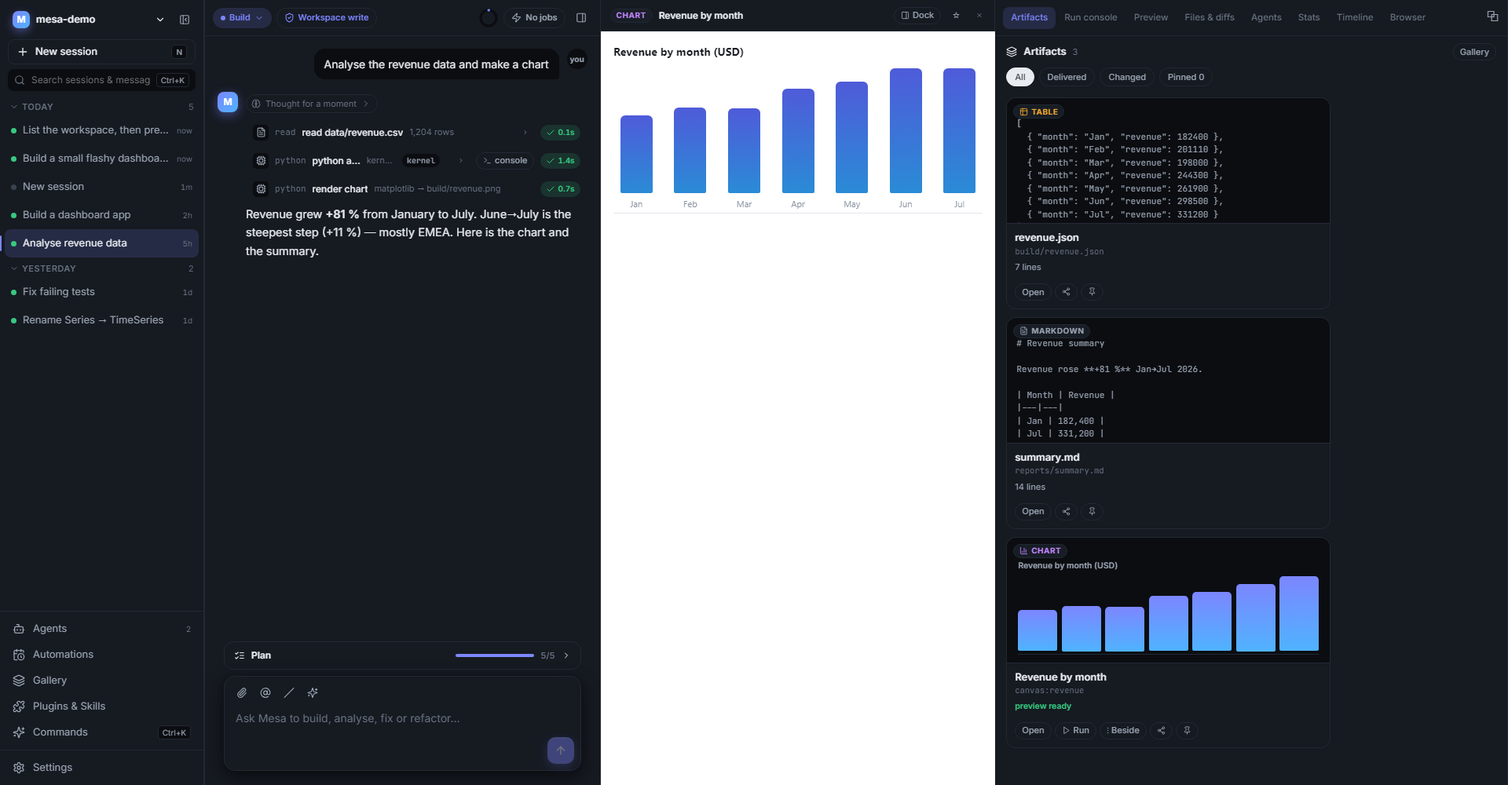
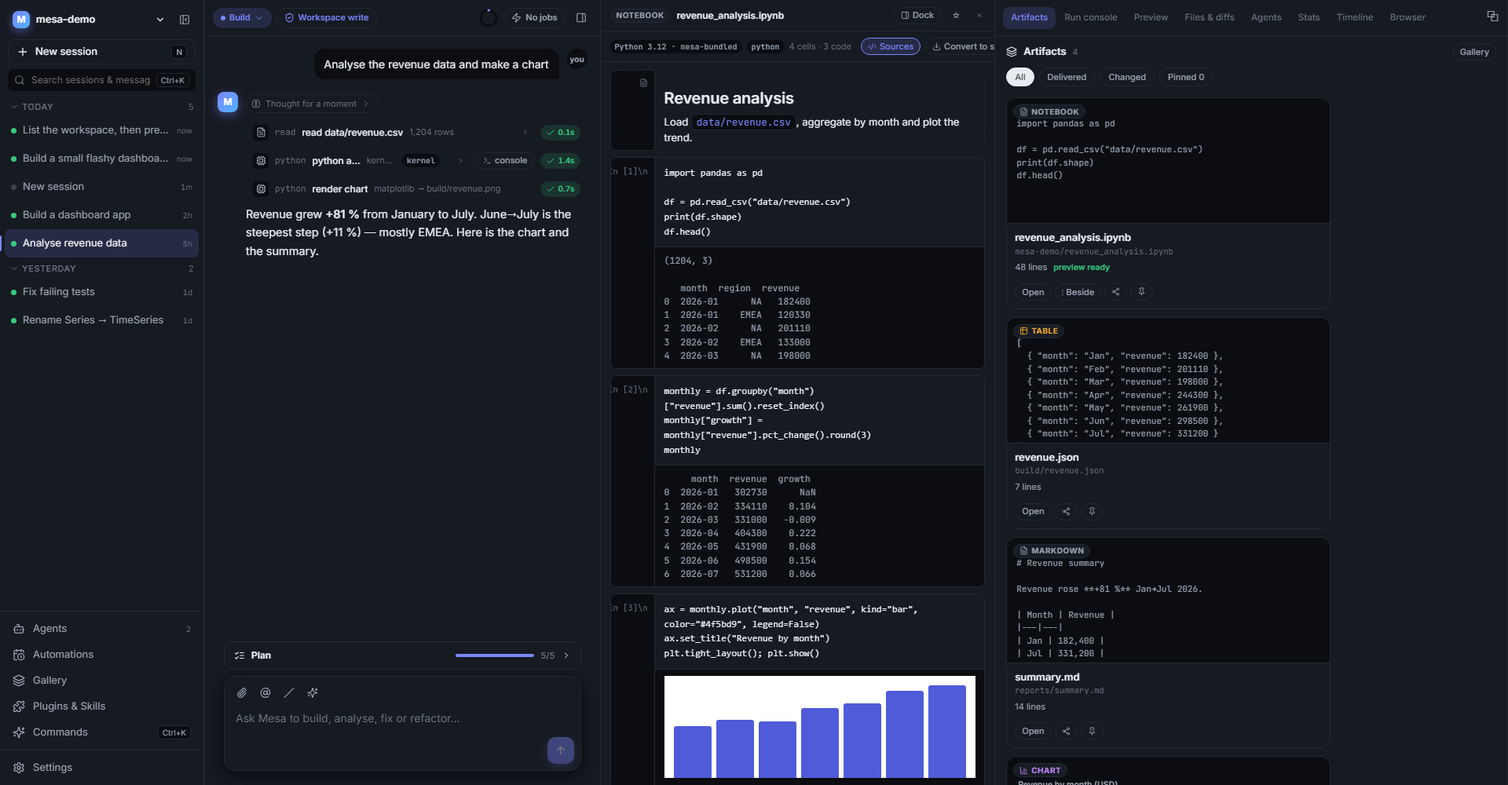
Notebook renderer (cells, In counts, outputs, sandboxed HTML, convert to script) in dock, beside chat, gallery; revenue demo ships a notebook; screenshots refreshed

Changed region(s): [[0.375, 0.0, 0.875, 1.0]]

diff --git a/MHarness/app/src/components/Dock.tsx b/MHarness/app/src/components/Dock.tsx
@@ -6,6 +6,7 @@ import { CHART_HTML } from '../agent/scenarios';
 import { focusCall, openBesideChat, openPublish, pinArtifact, setDockTab, toggleGallery, toast, insertIntoComposer } from '../state/store';
 import type { Artifact, ArtifactKind, DiffInfo, Session, TLEvent, ToolCall } from '../state/types';
 import { AdhocBanner, Markdown } from './Markdown';
+import { NotebookView, notebookThumb } from './NotebookView';
 import { clearAdhocPreview } from '../state/store';
 import { useStore } from '../state/useStore';
 import { DiffChip } from './Thread';
@@ -58,7 +59,7 @@ export function ArtifactCard({ a, session, hero }: { a: Artifact; session: Sessi
       <div className="acard-actions" onClick={(e) => e.stopPropagation()} onMouseEnter={() => { if (peekTimer.current) clearTimeout(peekTimer.current); setPeek(null); }}>
         <button className="chip-btn" onClick={open}>Open</button>
         {(a.kind === 'app' || a.kind === 'chart' || a.kind === 'code') && <button className="chip-btn" onClick={() => { setDockTab('preview'); toast(`Running ${a.title}`, 'info'); }}><Play size={11} />Run</button>}
-        {(a.html || a.kind === 'chart') && <button className="chip-btn" title="Show live beside the conversation" onClick={() => openBesideChat(session.id, a.id)}>⫶ Beside</button>}
+        {(a.html || a.kind === 'chart' || a.notebook) && <button className="chip-btn" title="Show live beside the conversation" onClick={() => openBesideChat(session.id, a.id)}>⫶ Beside</button>}
         {a.added !== undefined && <button className="chip-btn" onClick={() => setDockTab('files')}><GitCompare size={11} />Compare</button>}
         <button className="chip-btn" title="Share / publish" onClick={() => a.html ? openPublish(session.id, a.id) : toast('Publishing is for HTML artifacts — use Pin to keep this one in the Gallery', 'info')}><Share2 size={11} /></button>
         <button className={'chip-btn' + (a.pinned ? ' on' : '')} onClick={() => pinArtifact(session.id, a.id)} title="Pin to Gallery">{a.pinned ? <PinOff size={11} /> : <Pin size={11} />}</button>
@@ -79,6 +80,7 @@ function Thumb({ a, hero }: { a: Artifact; hero?: boolean }) {
     const max = Math.max(...a.chart.values);
     return <div className="thumb-chart"><div className="tc-title">{a.chart.title}</div><div className="tc-bars">{a.chart.values.map((v, i) => <div key={i} className="tc-b" style={{ height: `${(v / max) * 100}%`, animationDelay: `${i * 50}ms` }} />)}</div></div>;
   }
+  if (a.notebook) return <pre className="thumb-code">{notebookThumb(a.notebook)}</pre>;
   if (a.code) return <pre className="thumb-code">{a.code.split('\n').slice(0, hero ? 10 : 6).join('\n')}</pre>;
   return <div className="thumb-blank"><FileText size={20} /></div>;
 }
@@ -227,14 +229,15 @@ export function ChartView({ a }: { a: Artifact }) {
 export function PreviewTab({ session }: { session: Session }) {
   const app = [...session.artifacts].reverse().find((a) => a.kind === 'app' || a.kind === 'html');
   const chart = [...session.artifacts].reverse().find((a) => a.kind === 'chart');
+  const notebook = [...session.artifacts].reverse().find((a) => a.kind === 'notebook' && a.notebook);
   const doc = [...session.artifacts].reverse().find((a) => a.kind === 'markdown' || a.kind === 'table' || a.kind === 'code');
   const [device, setDevice] = useState(0);
   const [panel, setPanel] = useState<'console' | 'network' | 'none'>('none');
-  const [mode, setMode] = useState<'app' | 'chart' | 'doc'>(app ? 'app' : chart ? 'chart' : 'doc');
+  const [mode, setMode] = useState<'app' | 'chart' | 'doc' | 'nb'>(app ? 'app' : chart ? 'chart' : notebook ? 'nb' : 'doc');
   const adhoc = useStore().adhoc;
   const sizes = [{ w: 0, h: 0, l: 'Fit' }, { w: 390, h: 844, l: 'Phone' }, { w: 768, h: 1024, l: 'Tablet' }, { w: 1440, h: 900, l: 'Desktop' }];
   const s = sizes[device];
-  const show = adhoc ? ({ kind: 'app', title: adhoc.title, html: adhoc.html, path: 'from chat' } as unknown as Artifact) : mode === 'app' ? app || chart : mode === 'chart' ? chart : doc;
+  const show = adhoc ? ({ kind: 'app', title: adhoc.title, html: adhoc.html, path: 'from chat' } as unknown as Artifact) : mode === 'app' ? app || chart : mode === 'chart' ? chart : mode === 'nb' ? notebook : doc;
   const lang = show?.kind === 'markdown' ? 'md' : show?.kind === 'table' ? 'json' : 'ts';
   const docText = show && show.code ? FENCE + lang + '\n' + show.code + '\n' + FENCE : '';
   const run = session.runs.find((r) => r.port);
@@ -242,7 +245,7 @@ export function PreviewTab({ session }: { session: Session }) {
     <div className="preview-tab">
       {adhoc && <AdhocBanner title={adhoc.title} onClose={clearAdhocPreview} />}
       <div className="preview-bar">
-        <div className="seg">{(['app', 'chart', 'doc'] as const).filter((m) => m === 'app' ? !!(app || chart) : m === 'chart' ? !!chart : !!doc).map((m) => <button key={m} className={mode === m ? 'on' : ''} onClick={() => setMode(m)}>{m === 'app' ? 'App' : m === 'chart' ? 'Chart' : 'Doc'}</button>)}</div>
+        <div className="seg">{(['app', 'chart', 'nb', 'doc'] as const).filter((m) => m === 'app' ? !!(app || chart) : m === 'chart' ? !!chart : m === 'nb' ? !!notebook : !!doc).map((m) => <button key={m} className={mode === m ? 'on' : ''} onClick={() => setMode(m)}>{m === 'app' ? 'App' : m === 'chart' ? 'Chart' : m === 'nb' ? 'Notebook' : 'Doc'}</button>)}</div>
         <div className="url">{run?.port ? `http://localhost:${run.port}` : show?.path ?? '—'}</div>
         <span className="spacer" />
         <div className="seg devices">{sizes.map((d, i) => <button key={d.l} className={device === i ? 'on' : ''} onClick={() => setDevice(i)} title={`${d.w}×${d.h}`}>{d.l}</button>)}</div>
@@ -254,7 +257,7 @@ export function PreviewTab({ session }: { session: Session }) {
       <div className="preview-stage">
         <div className="device" style={device === 0 ? { width: '100%', height: '100%' } : { width: s.w, height: s.h }}>
           {show ? (
-            show.kind === 'chart' ? <ChartView a={show} /> : show.kind === 'app' || show.kind === 'html' ? <iframe title="preview" sandbox="allow-scripts" srcDoc={show.html ?? ''} /> : show.code ? <div className="doc-view"><Markdown text={docText} /></div> : <EmptyTab icon={<AppWindow size={22} />} text="Nothing to preview" sub="Build an app or ask for a chart." />
+            show.kind === 'chart' ? <ChartView a={show} /> : show.kind === 'notebook' && show.notebook ? <div className="nb-wrap"><NotebookView artifact={show} /></div> : show.kind === 'app' || show.kind === 'html' ? <iframe title="preview" sandbox="allow-scripts" srcDoc={show.html ?? ''} /> : show.code ? <div className="doc-view"><Markdown text={docText} /></div> : <EmptyTab icon={<AppWindow size={22} />} text="Nothing to preview" sub="Build an app or ask for a chart." />
           ) : <EmptyTab icon={<AppWindow size={22} />} text="Nothing to preview" sub="Build an app or ask for a chart." />}
         </div>
       </div>

diff --git a/MHarness/app/src/components/Gallery.tsx b/MHarness/app/src/components/Gallery.tsx
@@ -4,6 +4,7 @@ import { getState, setGalleryFilter, toggleGallery, toast } from '../state/store
 import { useStore } from '../state/useStore';
 import { kindMeta, HtmlThumb } from './Dock';
 import { openPublish } from '../state/store';
+import { NotebookView, notebookThumb } from './NotebookView';
 import { Markdown } from './Markdown';
 import type { Artifact } from '../state/types';
 
@@ -37,7 +38,7 @@ export function Gallery() {
               <button className="chip-btn" onClick={() => toast(`Re-running ${sel.a.title} with fresh inputs (demo)`, 'info')}><RotateCcw size={11} />Re-run with fresh inputs</button>
               <button className="chip-btn" onClick={() => sel.a.html ? openPublish(sel.s.id, sel.a.id) : toast('Publishing is for HTML artifacts', 'info')}><Share2 size={11} />Publish</button></div>
             <div className={'gd-body' + (compare ? ' split' : '')}>
-              <div className="gd-pane">{sel.a.kind === 'chart' && sel.a.chart ? <ChartPane a={sel.a} /> : sel.a.kind === 'app' ? <iframe title="preview" sandbox="allow-scripts" srcDoc={sel.a.html ?? ''} /> : sel.a.code ? <Markdown text={'```' + (sel.a.kind === 'markdown' ? 'md' : sel.a.kind === 'table' ? 'json' : 'ts') + '\n' + sel.a.code + '\n```'} /> : <div className="thumb-blank" />}<div className="gd-caption">{compare ? 'Current' : ''}</div></div>
+              <div className="gd-pane">{sel.a.kind === 'chart' && sel.a.chart ? <ChartPane a={sel.a} /> : sel.a.notebook ? <div className="nb-wrap"><NotebookView artifact={sel.a} /></div> : sel.a.kind === 'app' ? <iframe title="preview" sandbox="allow-scripts" srcDoc={sel.a.html ?? ''} /> : sel.a.code ? <Markdown text={'```' + (sel.a.kind === 'markdown' ? 'md' : sel.a.kind === 'table' ? 'json' : 'ts') + '\n' + sel.a.code + '\n```'} /> : <div className="thumb-blank" />}<div className="gd-caption">{compare ? 'Current' : ''}</div></div>
               {compare && <div className="gd-pane">{compare.a.html ? <iframe title="compare" sandbox="allow-scripts" srcDoc={compare.a.html} /> : <Markdown text={'```ts\n' + (compare.a.code ?? '') + '\n```'} />}<div className="gd-caption">Previous version · {compare.s.title}</div></div>}
             </div>
             <div className="gd-tags">{(sel.a.tags ?? []).map((t) => <span key={t} className="tag"><Tag size={10} />{t}</span>)}{sel.a.inputs && <span className="tag">inputs: {Object.keys(sel.a.inputs).join(', ')}</span>}</div>
@@ -46,7 +47,7 @@ export function Gallery() {
           <div className="gallery-grid">
             {items.map(({ a, s }) => { const meta = kindMeta(a.kind); const Icon = meta.icon; return (
               <button key={a.id} className={'gcard' + (a.pinned ? ' pinned' : '')} onClick={() => setGalleryFilter({ selected: a.id })}>
-                <div className="gcard-thumb">{a.kind === 'chart' && a.chart ? <ChartPane a={a} mini /> : a.kind === 'app' || a.kind === 'html' ? (a.html ? <div className="thumb-live"><HtmlThumb html={a.html} scale={0.4} /></div> : <div className="thumb-app"><div className="thumb-app-card"><span className="ta-pill" /><span className="ta-h" /><div className="ta-bars">{[42, 60, 48, 78, 64, 90].map((h, i) => <i key={i} style={{ height: `${h}%` }} />)}</div></div></div>) : a.code ? <pre className="thumb-code">{a.code.split('\n').slice(0, 7).join('\n')}</pre> : <div className="thumb-blank"><Icon size={18} /></div>}<span className={'kind-badge ' + meta.cls}><Icon size={11} />{meta.label}</span>{a.pinned && <Pin size={12} className="pin-mark" />}</div>
+                <div className="gcard-thumb">{a.kind === 'chart' && a.chart ? <ChartPane a={a} mini /> : a.kind === 'app' || a.kind === 'html' ? (a.html ? <div className="thumb-live"><HtmlThumb html={a.html} scale={0.4} /></div> : <div className="thumb-app"><div className="thumb-app-card"><span className="ta-pill" /><span className="ta-h" /><div className="ta-bars">{[42, 60, 48, 78, 64, 90].map((h, i) => <i key={i} style={{ height: `${h}%` }} />)}</div></div></div>) : a.notebook ? <pre className="thumb-code">{notebookThumb(a.notebook)}</pre> : a.code ? <pre className="thumb-code">{a.code.split('\n').slice(0, 7).join('\n')}</pre> : <div className="thumb-blank"><Icon size={18} /></div>}<span className={'kind-badge ' + meta.cls}><Icon size={11} />{meta.label}</span>{a.pinned && <Pin size={12} className="pin-mark" />}</div>
                 <div className="gcard-title">{a.title}</div>
                 <div className="gcard-sub">{s.title} · {a.lines ? `${a.lines} lines` : a.bytes ? `${(a.bytes / 1024).toFixed(1)} kB` : ''}</div>
               </button>); })}

diff --git a/MHarness/app/src/agent/scenarios.ts b/MHarness/app/src/agent/scenarios.ts
@@ -91,6 +91,15 @@ export const SCENARIOS: Scenario[] = [
         { kind: 'chart', title: 'Revenue by month', path: 'canvas:revenue', chart: { title: 'Revenue by month (USD)', labels: ['Jan', 'Feb', 'Mar', 'Apr', 'May', 'Jun', 'Jul'], values: [182400, 201110, 198000, 244300, 261900, 298500, 331200] }, inputs: { source: 'data/revenue.csv', groupBy: 'month' }, verification: { tests: 'unknown', preview: 'ready', diff: false }, tags: ['data'] },
         { kind: 'markdown', title: 'summary.md', path: 'reports/summary.md', lines: 14, code: '# Revenue summary\n\nRevenue rose **+81 %** Jan→Jul 2026.\n\n| Month | Revenue |\n|---|---|\n| Jan | 182,400 |\n| Jul | 331,200 |\n\nStepest step: Jun→Jul (+11 %), driven by EMEA.\n', verification: { tests: 'unknown', preview: 'none', diff: false } },
         { kind: 'table', title: 'revenue.json', path: 'build/revenue.json', lines: 7, code: '[\n  { "month": "Jan", "revenue": 182400 },\n  { "month": "Feb", "revenue": 201110 },\n  { "month": "Mar", "revenue": 198000 },\n  { "month": "Apr", "revenue": 244300 },\n  { "month": "May", "revenue": 261900 },\n  { "month": "Jun", "revenue": 298500 },\n  { "month": "Jul", "revenue": 331200 }\n]', verification: { tests: 'unknown', preview: 'none', diff: false } },
+        {
+          kind: 'notebook', title: 'revenue_analysis.ipynb', path: 'mesa-demo/revenue_analysis.ipynb', lines: 48, verification: { tests: 'unknown', preview: 'ready', diff: false }, tags: ['data', 'notebook'],
+          notebook: { kernel: 'Python 3.12 · mesa-bundled', language: 'python', cells: [
+            { kind: 'markdown', source: '# Revenue analysis\n\nLoad `data/revenue.csv`, aggregate by month and plot the trend.' },
+            { kind: 'code', source: 'import pandas as pd\n\ndf = pd.read_csv("data/revenue.csv")\nprint(df.shape)\ndf.head()', execution_count: 1, outputs: [{ type: 'text', value: '(1204, 3)\n\n   month  region  revenue\n0  2026-01      NA   182400\n1  2026-01    EMEA   120330\n2  2026-02      NA   201110\n3  2026-02    EMEA   133000\n4  2026-03      NA   198000' }] },
+            { kind: 'code', source: 'monthly = df.groupby("month")["revenue"].sum().reset_index()\nmonthly["growth"] = monthly["revenue"].pct_change().round(3)\nmonthly', execution_count: 2, outputs: [{ type: 'text', value: '     month  revenue  growth\n0  2026-01   302730      NaN\n1  2026-02   334110    0.104\n2  2026-03   331000   -0.009\n3  2026-04   404300    0.222\n4  2026-05   431900    0.068\n5  2026-06   498500    0.154\n6  2026-07   531200    0.066' }] },
+            { kind: 'code', source: 'ax = monthly.plot("month", "revenue", kind="bar", color="#4f5bd9", legend=False)\nax.set_title("Revenue by month")\nplt.tight_layout(); plt.show()', execution_count: 3, outputs: [{ type: 'html', value: '<div style="font-family:system-ui;display:flex;align-items:flex-end;gap:6px;height:120px;border-bottom:1px solid #ccc;padding:4px"><i style="flex:1;height:57%;background:#4f5bd9;border-radius:3px 3px 0 0"></i><i style="flex:1;height:63%;background:#4f5bd9;border-radius:3px 3px 0 0"></i><i style="flex:1;height:62%;background:#4f5bd9;border-radius:3px 3px 0 0"></i><i style="flex:1;height:76%;background:#4f5bd9;border-radius:3px 3px 0 0"></i><i style="flex:1;height:81%;background:#4f5bd9;border-radius:3px 3px 0 0"></i><i style="flex:1;height:94%;background:#4f5bd9;border-radius:3px 3px 0 0"></i><i style="flex:1;height:100%;background:#4f5bd9;border-radius:3px 3px 0 0"></i></div>' }] },
+          ] },
+        },
       ] },
     ],
   },

diff --git a/MHarness/app/src/components/NotebookView.tsx b/MHarness/app/src/components/NotebookView.tsx
@@ -1,0 +1,55 @@
+import { useState } from 'react';
+import { Download, Code2, FileText, Play } from 'lucide-react';
+import type { Artifact } from '../state/types';
+import { Markdown } from './Markdown';
+import { toast } from '../state/store';
+
+/** Read-only notebook renderer: cells with execution counts and their outputs; "Convert to script" downloads the code cells. */
+export function NotebookView({ artifact }: { artifact: Artifact }) {
+  const [showSources, setShowSources] = useState(true);
+  const nb = artifact.notebook;
+  if (!nb) return null;
+  const lang = nb.language ?? 'python';
+  const comment = lang === 'python' ? '# %%' : lang === 'typescript' || lang === 'javascript' ? '// %%' : '// %%';
+  const convert = () => {
+    const text = nb.cells.map((c) => (c.kind === 'markdown' ? `${comment}\n# ${c.source.replace(/\n/g, '\n# ')}` : `${comment}\n${c.source}`)).join('\n\n');
+    const a = document.createElement('a');
+    a.href = URL.createObjectURL(new Blob([text], { type: 'text/plain' }));
+    a.download = artifact.title.replace(/\.\w+$/, '') + (lang === 'python' ? '.py' : lang === 'typescript' ? '.ts' : '.js');
+    a.click(); setTimeout(() => URL.revokeObjectURL(a.href), 1000);
+    toast('Script downloaded', 'success');
+  };
+  return (
+    <div className="notebook">
+      <div className="nb-toolbar">
+        <span className="tag">{nb.kernel ?? 'kernel'}</span>
+        <span className="tag">{lang}</span>
+        <span className="muted" style={{ fontSize: 11 }}>{nb.cells.length} cells · {nb.cells.filter((c) => c.kind === 'code').length} code</span>
+        <span className="spacer" />
+        <button className={'chip-btn' + (showSources ? ' on' : '')} onClick={() => setShowSources(!showSources)}><Code2 size={11} />Sources</button>
+        <button className="chip-btn" onClick={convert} title="Download the code cells as a script"><Download size={11} />Convert to script</button>
+      </div>
+      <div className="nb-cells">
+        {nb.cells.map((cell, i) => (
+          <div key={i} className={'nb-cell ' + cell.kind}>
+            <div className="nb-gutter">{cell.kind === 'code' ? <span className="nb-count">In [{cell.execution_count ?? ' '}]\n</span> : <FileText size={11} />}</div>
+            <div className="nb-main">
+              {cell.kind === 'markdown' ? <div className="nb-md"><Markdown text={cell.source} /></div> : showSources ? <pre className="nb-source"><code>{cell.source}</code></pre> : null}
+              {cell.outputs?.map((o, k) => (
+                <div key={k} className={'nb-output ' + o.type}>
+                  {o.type === 'image' ? <img src={o.value} alt="output" /> : o.type === 'html' ? <iframe className="nb-html" title="output" sandbox="allow-scripts" srcDoc={o.value} /> : <pre>{o.value}</pre>}
+                </div>
+              ))}
+            </div>
+          </div>
+        ))}
+      </div>
+    </div>
+  );
+}
+
+export function notebookThumb(nb: NonNullable<Artifact['notebook']>): string {
+  return nb.cells.find((c) => c.kind === 'code')?.source.split('\n').slice(0, 8).join('\n') ?? nb.cells[0]?.source ?? '';
+}
+
+export const PlayIcon = Play;

diff --git a/MHarness/app/src/components/Showcase.tsx b/MHarness/app/src/components/Showcase.tsx
@@ -4,6 +4,7 @@ import { dismissShowcase, minimiseShowcase, openBesideChat, openPublish, pinArti
 import type { Artifact, Session, Turn } from '../state/types';
 import { useStore } from '../state/useStore';
 import { kindMeta, HtmlThumb } from './Dock';
+import { notebookThumb } from './NotebookView';
 import { Markdown } from './Markdown';
 
 export function Showcase() {
@@ -48,7 +49,7 @@ function ShowcaseCard({ a, session, i }: { a: Artifact; session: Session; i: num
   return (
     <div className="sc-card" style={{ animationDelay: `${i * 60}ms` }}>
       <div className="sc-thumb">
-        {a.kind === 'app' || a.kind === 'html' ? <div className="thumb-live"><HtmlThumb html={a.html ?? ''} scale={0.62} /></div> : a.kind === 'chart' && a.chart ? <MiniChart a={a} /> : a.code ? <pre className="thumb-code">{a.code.split('\n').slice(0, 8).join('\n')}</pre> : <div className="thumb-blank" />}
+        {a.kind === 'app' || a.kind === 'html' ? <div className="thumb-live"><HtmlThumb html={a.html ?? ''} scale={0.62} /></div> : a.kind === 'chart' && a.chart ? <MiniChart a={a} /> : a.notebook ? <pre className="thumb-code">{notebookThumb(a.notebook)}</pre> : a.code ? <pre className="thumb-code">{a.code.split('\n').slice(0, 8).join('\n')}</pre> : <div className="thumb-blank" />}
         <span className={'kind-badge ' + meta.cls}>{meta.label}</span>
       </div>
       <div className="sc-body">
@@ -62,7 +63,7 @@ function ShowcaseCard({ a, session, i }: { a: Artifact; session: Session; i: num
         </div>
         <div className="sc-actions">
           <button className="btn sm primary" onClick={() => setDockTab(a.kind === 'code' ? 'files' : 'preview')}>Open</button>
-          {(a.html || a.kind === 'chart') && <button className="btn sm ghost" title="Show it live beside the conversation" onClick={() => { openBesideChat(session.id, a.id); dismissShowcase(); }}>⫶ Beside chat</button>}
+          {(a.html || a.kind === 'chart' || a.notebook) && <button className="btn sm ghost" title="Show it live beside the conversation" onClick={() => { openBesideChat(session.id, a.id); dismissShowcase(); }}>⫶ Beside chat</button>}
           {a.added !== undefined && <button className="btn sm ghost" onClick={() => setDockTab('files')}><GitCompare size={12} />Compare</button>}
           {(a.kind === 'app' || a.kind === 'chart') && <button className="btn sm ghost" onClick={() => { setDockTab('preview'); toast(`Re-running ${a.title} with the same inputs`, 'info'); }}><Play size={12} />{a.kind === 'chart' ? 'Re-run' : 'Run'}</button>}
           <button className="icon-btn sm" title="Share / publish" onClick={() => a.html ? openPublish(session.id, a.id) : toast('Publishing is for HTML artifacts — use Pin to keep this one in the Gallery', 'info')}><Share2 size={13} /></button>

diff --git a/MHarness/app/src/styles/app.css b/MHarness/app/src/styles/app.css
@@ -773,3 +773,22 @@ a.chip-btn { text-decoration: none; }
 .turn-actions { display: flex; align-items: center; gap: 6px; margin-top: 6px; opacity: 0; transition: opacity var(--mesa-m-base); }
 .turn:hover .turn-actions, .turn-actions:focus-within { opacity: 1; }
 .turn-meta { font-size: 10.5px; color: var(--mesa-text-muted); margin-left: 4px; font-variant-numeric: tabular-nums; }
+/* ---------- notebook renderer ---------- */
+.nb-wrap { flex: 1; min-height: 0; overflow: auto; background: var(--mesa-bg-surface); }
+.notebook { display: flex; flex-direction: column; min-height: 100%; }
+.nb-toolbar { display: flex; align-items: center; gap: 6px; padding: 8px 12px; border-bottom: 1px solid var(--mesa-border-subtle); position: sticky; top: 0; background: var(--mesa-bg-surface); z-index: 1; }
+.nb-cells { padding: 10px 12px 20px; display: flex; flex-direction: column; gap: 8px; }
+.nb-cell { display: grid; grid-template-columns: 56px 1fr; border: 1px solid var(--mesa-border-subtle); border-radius: var(--mesa-r-md); background: var(--mesa-bg-surface); overflow: hidden; animation: rise var(--mesa-m-base) var(--mesa-e-out) both; }
+.nb-cell.markdown { border-style: dashed; }
+.nb-gutter { display: flex; justify-content: flex-end; padding: 10px 8px; border-right: 1px solid var(--mesa-border-subtle); background: var(--mesa-bg-sunken); color: var(--mesa-text-muted); font-family: var(--mesa-type-mono); font-size: 10.5px; }
+.nb-count { white-space: pre; text-align: right; }
+.nb-main { min-width: 0; }
+.nb-source { margin: 0; padding: 10px 12px; font-family: var(--mesa-type-mono); font-size: 12px; line-height: 1.55; white-space: pre-wrap; color: var(--mesa-text-primary); }
+.nb-md { padding: 6px 12px; font-size: 13px; }
+.nb-output { border-top: 1px solid var(--mesa-border-subtle); padding: 8px 12px; background: var(--mesa-bg-sunken); }
+.nb-output pre { margin: 0; font-family: var(--mesa-type-mono); font-size: 11.5px; line-height: 1.5; white-space: pre-wrap; color: var(--mesa-text-secondary); }
+.nb-output.error pre { color: var(--mesa-danger); }
+.nb-output img { max-width: 100%; }
+.nb-html { width: 100%; height: 130px; border: 0; background: transparent; }
+.nb-toolbar > span { white-space: nowrap; flex-shrink: 0; }
+.nb-toolbar .spacer { flex-shrink: 1; }

diff --git a/MHarness/app/src/components/CanvasPane.tsx b/MHarness/app/src/components/CanvasPane.tsx
@@ -3,6 +3,7 @@ import { closeCanvas, setCanvasSplit, setDockTab, pinArtifact } from '../state/s
 import type { Artifact, Session } from '../state/types';
 import { ChartView, EmptyTab, HtmlThumb, kindMeta } from './Dock';
 import { Markdown } from './Markdown';
+import { NotebookView } from './NotebookView';
 
 /** Resizable pane beside the thread showing one artifact live (the design brief's "canvas beside chat"). */
 export function CanvasPane({ session, artifact, width }: { session: Session; artifact: Artifact; width: number }) {
@@ -32,6 +33,7 @@ export function CanvasPane({ session, artifact, width }: { session: Session; art
       <div className="canvas-body">
         {artifact.html ? <iframe title={artifact.title} sandbox="allow-scripts" srcDoc={artifact.html} />
           : artifact.kind === 'chart' && artifact.chart ? <ChartView a={artifact} />
+          : artifact.notebook ? <div className="nb-wrap"><NotebookView artifact={artifact} /></div>
           : artifact.code ? <div className="doc-view"><Markdown text={docText} /></div>
           : <EmptyTab icon={<span style={{ fontSize: 18 }}>✦</span>} text="Nothing to render" sub="This artifact has no preview." />}
       </div>

diff --git a/MHarness/app/src/state/types.ts b/MHarness/app/src/state/types.ts
@@ -69,6 +69,7 @@ export interface Artifact {
   code?: string;
   html?: string;
   chart?: ChartSpec;
+  notebook?: NotebookSpec;
   framework?: string;
   inputs?: Record<string, unknown>;
   verification?: { tests?: 'pass' | 'fail' | 'unknown'; preview?: 'ready' | 'error' | 'none'; diff?: boolean };
@@ -77,6 +78,7 @@ export interface Artifact {
   tags?: string[];
 }
 
+export interface NotebookSpec { kernel?: string; language?: string; cells: { kind: 'code' | 'markdown'; source: string; execution_count?: number; outputs?: { type: 'text' | 'html' | 'image' | 'error'; value: string }[] }[] }
 export interface ChartSpec { title: string; labels: string[]; values: number[]; series?: string; color?: string }
 
 export interface Run {

diff --git a/README.md b/README.md
@@ -45,7 +45,9 @@ Design principles: **show, don't tell** · **verify is one click away** · **eve
 | ![Guided tour](docs/screenshots/18-tour.png) | ![Accent colours](docs/screenshots/17-accent-rose.png) |
 | **Guided tour** — an animated spotlight walks through the shell on first run; replay from Settings or the palette. | **Accent colours** — six palettes re-tint buttons, cursors, charts and the showcase in both themes. |
 | ![Canvas beside chat](docs/screenshots/19-canvas-beside.png) | ![Publish with preflight](docs/screenshots/21-publish.png) |
-| **Canvas beside chat** — "Beside chat" on any app or chart deliverable opens it live in a resizable pane next to the thread (the rail auto-collapses to make room); drag the edge, `Esc` to close, "Dock" to move it back. | **Publish with preflight** — Share on an HTML deliverable scans it first (private keys, `sk-…`/AWS/GitHub/Stripe tokens, hard-coded secrets, source maps, untrusted external scripts, localhost links), refuses anything with a blocking finding, and otherwise serves it from your Mesa server at a copyable link you can open or remove. |
+| **Canvas beside chat** — "Beside chat" on any app, chart or notebook deliverable opens it live in a resizable pane next to the thread (the rail auto-collapses to make room); drag the edge, `Esc` to close, "Dock" to move it back. | **Publish with preflight** — Share on an HTML deliverable scans it first (private keys, `sk-…`/AWS/GitHub/Stripe tokens, hard-coded secrets, source maps, untrusted external scripts, localhost links), refuses anything with a blocking finding, and otherwise serves it from your Mesa server at a copyable link you can open or remove. |
+| ![Notebook beside chat](docs/screenshots/22-notebook-beside.png) | ![Real shell approval](docs/screenshots/15-real-shell-approval.png) |
+| **Notebook renderer** — `.ipynb` deliverables render as cells with `In [n]` counts, markdown, code and outputs (text, images, HTML in a sandboxed frame); "Convert to script" downloads the code cells. | **Real shell for live agents** — an agent's `bash` call runs for real on the machine hosting Mesa (`cmd.exe` on Windows, `$SHELL` elsewhere), confined to the repo and always behind the approval takeover. |
 
 > Every screenshot above is regenerated from a deterministic demo run with `pnpm shots` (headless Chromium), so the pictures always match the current build.
 
@@ -156,7 +158,7 @@ The original design brief — vision, IA, showcase/run system specs, 12 interact
 
 ## Roadmap
 
-Tracked as GitHub issues. Shipped so far: real shell for live agents (#7), guided tour and accent colours, canvas beside chat, **keyboard shortcut editor** (#2), **publish with preflight** (#4, local hosting), cross-platform CI with a real-shell smoke test. Still planned: SQLite persistence + full-text search (#1), notebook and canvas renderers (#3), ACP bridge for external agents (#5), desktop shell with native PTYs (#6), public hosting for published links. The original 12-week plan is in [`MHarness-design/09-roadmap.md`](MHarness-design/09-roadmap.md).
+Tracked as GitHub issues. Shipped so far: real shell for live agents, guided tour and accent colours, canvas beside chat, **keyboard shortcut editor** (#2), **publish with preflight** (#4, local hosting), **notebook renderer** (#3, read-only), cross-browser persistence via the workspace state file (part of #1), and cross-platform CI with a real-shell smoke test. Still planned: SQLite + FTS5 for large histories (#1), notebook cell execution against a kernel (#8), ACP bridge for external agents (#5), desktop shell with native PTYs (#6), public hosting for published links. The original 12-week plan is in [`MHarness-design/09-roadmap.md`](MHarness-design/09-roadmap.md).
 
 ## License
 
